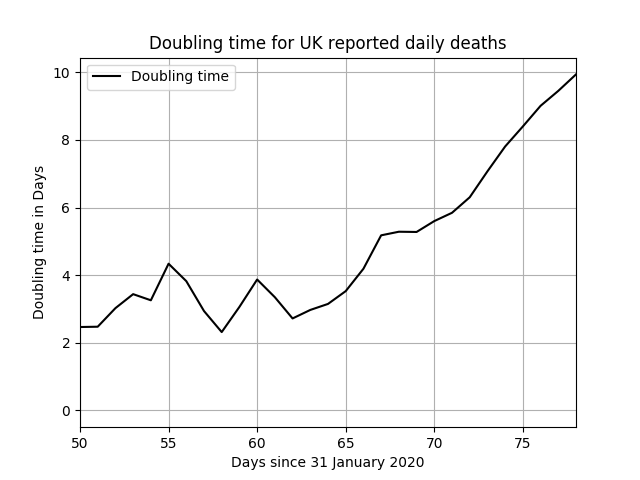
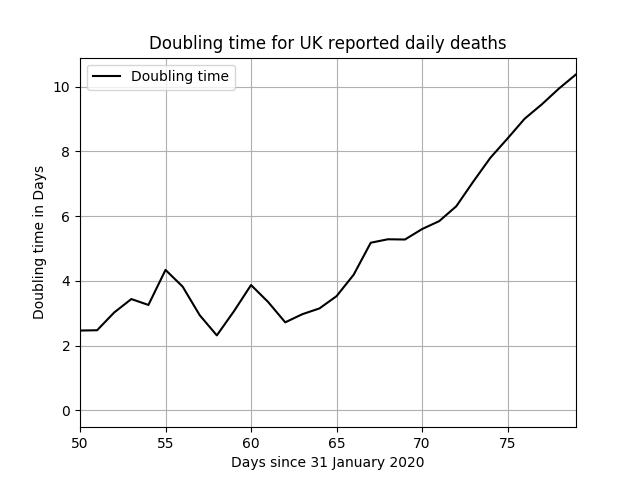
Daily run

diff --git a/README.md b/README.md
@@ -33,17 +33,17 @@ It is the combination that produces the lowest error.
 Output Details
 --------------
 <h3>Exponential function coefficients for new cases</h3>
-[87.75482099  1.05545171]
+[99.0802693   1.05316874]
 <h4>Covariance of coefficients</h4>
-[[ 7.53657139e+02 -1.28610846e-01]
- [-1.28610846e-01  2.23337354e-05]]
+[[ 9.06256667e+02 -1.35333020e-01]
+ [-1.35333020e-01  2.05877640e-05]]
 <h3>Exponential function coefficients for daily deaths</h3>
-[4.76438189 1.0722312 ]
+[5.70646464 1.06907711]
 <h4>Covariance of coefficients</h4>
-[[ 3.44945558e+00 -1.07739747e-02]
- [-1.07739747e-02  3.39900217e-05]] <br/>
+[[ 4.50022526e+00 -1.15886236e-02]
+ [-1.15886236e-02  3.01631408e-05]] <br/>
 <h3>Best offset and factor for third graph</h3>
 6 20%
 <h4>Average Error</h4>
-39.86
-<br /><br />Last updated on 2020-04-17 14:16:57.757849
+39.35
+<br /><br />Last updated on 2020-04-18 16:31:16.539522

diff --git a/out/fit.md b/out/fit.md
@@ -1,15 +1,15 @@
 <h3>Exponential function coefficients for new cases</h3>
-[87.75482099  1.05545171]
+[99.0802693   1.05316874]
 <h4>Covariance of coefficients</h4>
-[[ 7.53657139e+02 -1.28610846e-01]
- [-1.28610846e-01  2.23337354e-05]]
+[[ 9.06256667e+02 -1.35333020e-01]
+ [-1.35333020e-01  2.05877640e-05]]
 <h3>Exponential function coefficients for daily deaths</h3>
-[4.76438189 1.0722312 ]
+[5.70646464 1.06907711]
 <h4>Covariance of coefficients</h4>
-[[ 3.44945558e+00 -1.07739747e-02]
- [-1.07739747e-02  3.39900217e-05]] <br/>
+[[ 4.50022526e+00 -1.15886236e-02]
+ [-1.15886236e-02  3.01631408e-05]] <br/>
 <h3>Best offset and factor for third graph</h3>
 6 20%
 <h4>Average Error</h4>
-39.86
-<br /><br />Last updated on 2020-04-17 14:16:57.757849
+39.35
+<br /><br />Last updated on 2020-04-18 16:31:16.539522
